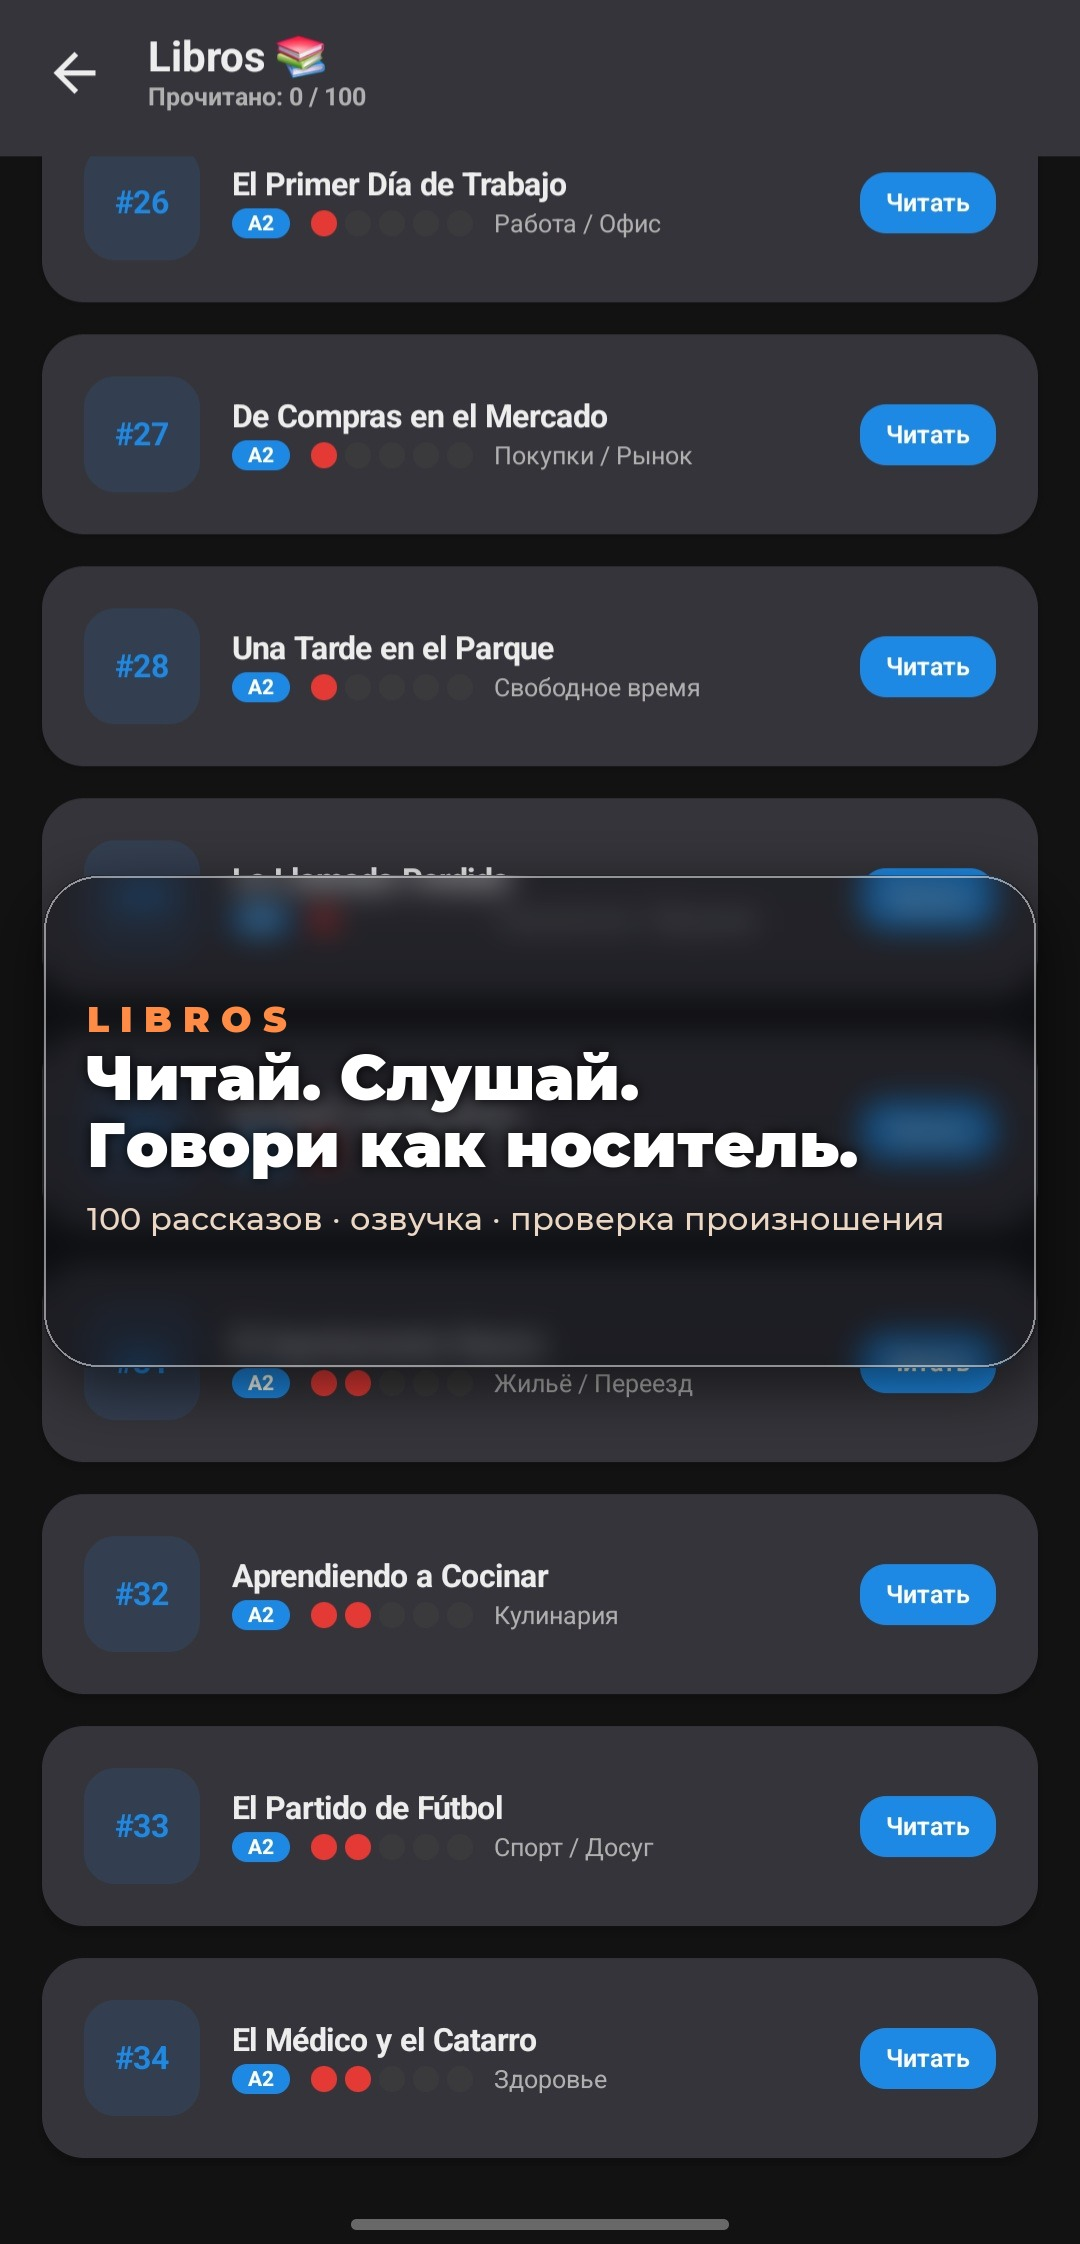
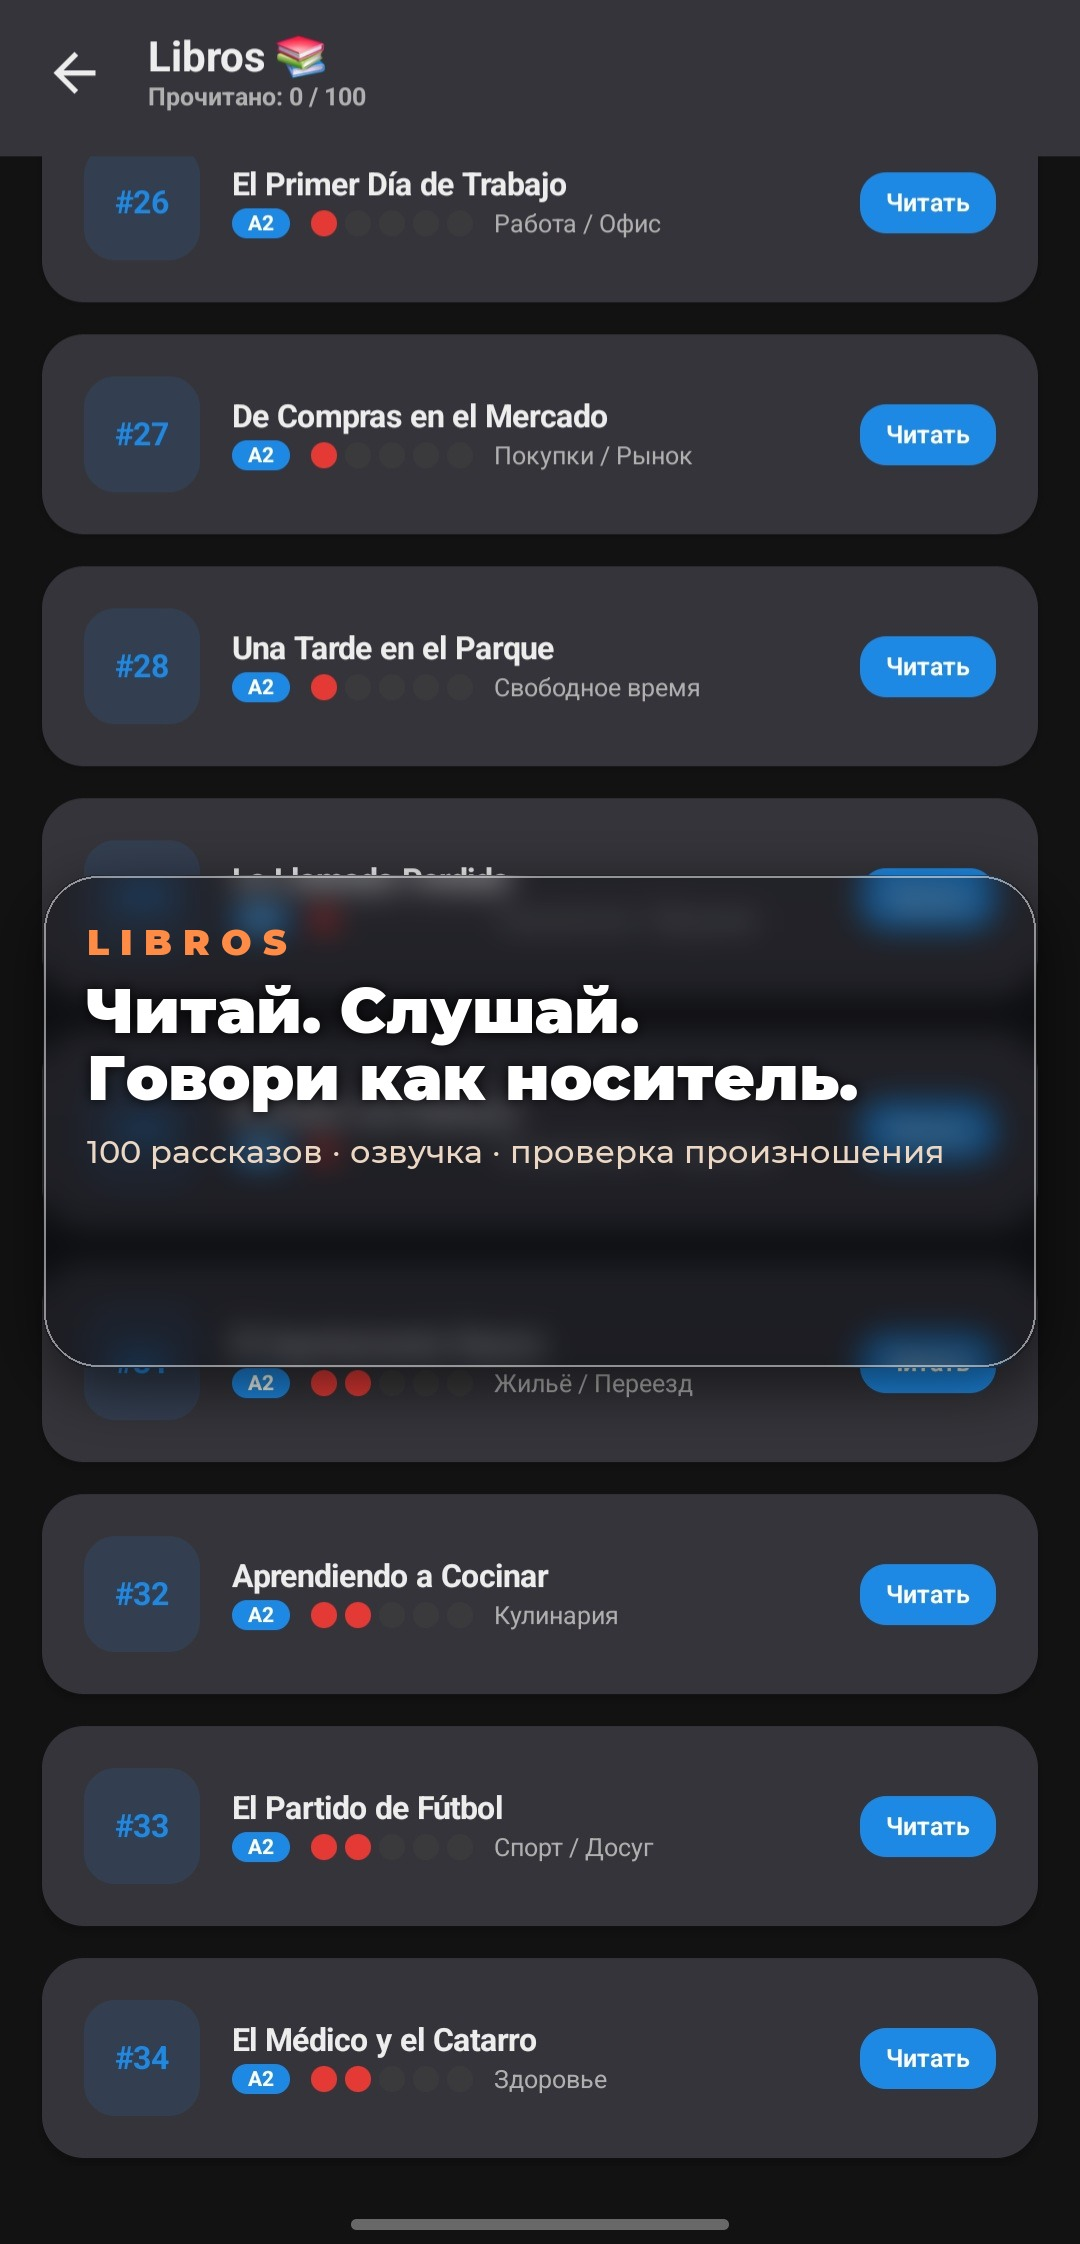
Play assets: top-anchor the eyebrow label
Switched the text block from center-aligned to top-anchored (11% inset
from the panel top). Eyebrow sits high under the border, headline and
subtitle stack below — classic premium ad layout.

Changed region(s): [[0.0611, 0.4055, 0.8556, 0.5615]]

diff --git a/docs/play_assets/_make_screenshot_banners.py b/docs/play_assets/_make_screenshot_banners.py
@@ -166,10 +166,12 @@ def add_glass_banner(img: Image.Image, eyebrow: str,
     sub_bbox = draw.textbbox((0, 0), subtitle, font=f_sub)
     sub_h    = sub_bbox[3] - sub_bbox[1]
 
-    gap_eb_head   = int(banner_h * 0.04)
+    gap_eb_head   = int(banner_h * 0.06)
     gap_head_sub  = int(banner_h * 0.05)
     block_h = eb_h + gap_eb_head + head_total_h + gap_head_sub + sub_h
-    block_y = banner_y + (banner_h - block_h) // 2
+    # Anchor block toward the TOP of the banner so the eyebrow sits high
+    top_inset = int(banner_h * 0.11)
+    block_y   = banner_y + top_inset
 
     text_x = banner_x + pad_x
 
